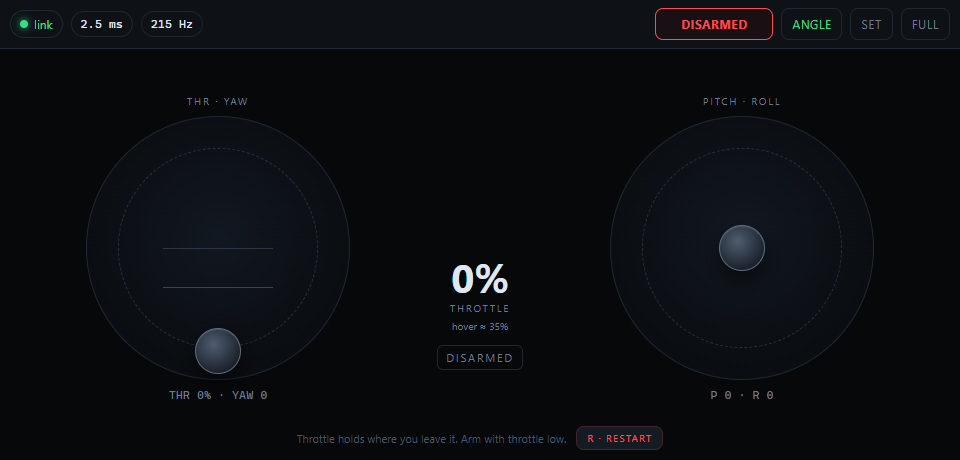
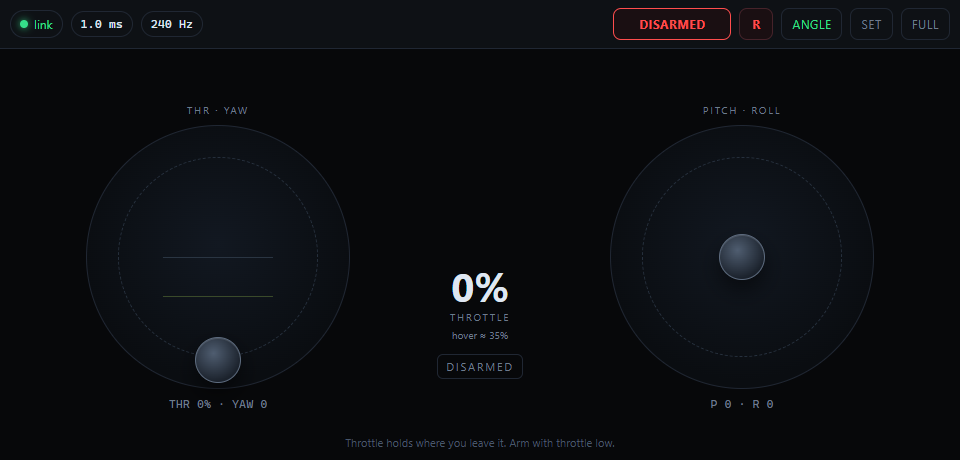
fix: make phone R restart the run, next to ARM

diff --git a/tools/smoke.ts b/tools/smoke.ts
@@ -5,6 +5,7 @@
 import {
   FLAG_ARMED,
   FLAG_HOLD,
+  FLAG_RESET,
   decodeTxFrame,
   encodeTxFrame,
 } from '../packages/protocol/protocol.ts';
@@ -34,6 +35,7 @@ await new Promise<void>((resolve, reject) => {
   let received = 0;
   let bad = 0;
   let resetSeen = false;
+  let resetFlagSeen = false;
 
   sim.binaryType = 'arraybuffer';
   sim.onmessage = (ev) => {
@@ -48,7 +50,10 @@ await new Promise<void>((resolve, reject) => {
     }
     const frame = decodeTxFrame(ev.data as ArrayBuffer);
     if (!frame) bad++;
-    else received++;
+    else {
+      received++;
+      if ((frame.flags & FLAG_RESET) !== 0) resetFlagSeen = true;
+    }
   };
 
   sim.onopen = () => {
@@ -67,7 +72,7 @@ await new Promise<void>((resolve, reject) => {
               yaw: 0,
               pitch: 100,
               roll: -100,
-              flags: FLAG_ARMED | FLAG_HOLD,
+              flags: FLAG_ARMED | FLAG_HOLD | (sent === 50 ? FLAG_RESET : 0),
               mode: 2,
               aux: 0,
             }),
@@ -84,6 +89,7 @@ await new Promise<void>((resolve, reject) => {
         assert(status.tx === true, 'server marks TX link live while frames arrive');
         assert(status.txHz > 150, `server measured ${status.txHz} Hz from the phone`);
         assert(resetSeen, 'phone R button resets the sim');
+        assert(resetFlagSeen, 'binary reset pulse reaches the sim');
         resolve();
       } catch (err) {
         reject(err);

diff --git a/apps/tx/src/main.ts b/apps/tx/src/main.ts
@@ -2,6 +2,7 @@ import {
   FLAG_ANGLE,
   FLAG_ARMED,
   FLAG_HOLD,
+  FLAG_RESET,
   encodeTxFrame,
   type TxFrame,
 } from '../../../packages/protocol/protocol';
@@ -170,6 +171,7 @@ const settings = loadSettings();
 let armed = false;
 let angleMode = true;
 let seq = 0;
+let resetPulseUntil = 0;
 let ws: WebSocket | null = null;
 let reconnectTimer: number | null = null;
 let rttMs = -1;
@@ -342,7 +344,8 @@ function currentFrame(): TxFrame {
     flags:
       (armed ? FLAG_ARMED : 0) |
       (angleMode ? FLAG_ANGLE : 0) |
-      (settings.throttle === 'hold' ? FLAG_HOLD : 0),
+      (settings.throttle === 'hold' ? FLAG_HOLD : 0) |
+      (resetPulseUntil > now ? FLAG_RESET : 0),
     mode: settings.mode,
     aux: 0,
   };
@@ -496,9 +499,13 @@ btnRestart.addEventListener('click', () => {
     flash('no link');
     return;
   }
-  // Reset the run on the sim, then disarm so a restart never comes back hot.
+  // Pulse the reset bit in the binary stream so the restart also works with an
+  // older relay that does not forward the JSON reset message. Send both: the
+  // relay path is instant, the binary pulse is the compatibility path.
+  resetPulseUntil = performance.now() + 200;
   ws.send(JSON.stringify({ type: 'reset' }));
   disarm('run restarted');
+  send();
   buzz(30);
   flash('run restarted');
 });

diff --git a/apps/server/public/tx/index.html b/apps/server/public/tx/index.html
@@ -11,7 +11,7 @@
     <meta name="mobile-web-app-capable" content="yes" />
     <meta name="apple-mobile-web-app-capable" content="yes" />
     <title>FPV TX</title>
-    <link rel="stylesheet" href="./style.css?v=4" />
+    <link rel="stylesheet" href="./style.css?v=5" />
   </head>
   <body>
     <div id="app">
@@ -20,6 +20,7 @@
         <div class="pill mono" id="rtt">-- ms</div>
         <div class="pill mono" id="rate">-- Hz</div>
         <button id="armBtn" class="arm" type="button">DISARMED</button>
+        <button id="btnRestart" class="danger restart" type="button" aria-label="restart run">R</button>
         <button id="btnAngle" class="ghost" type="button">ACRO</button>
         <button id="btnSettings" class="ghost" type="button" aria-label="settings">SET</button>
         <button id="btnFull" class="ghost" type="button" aria-label="fullscreen">FULL</button>
@@ -57,7 +58,6 @@
 
       <div class="hintbar">
         <span>Throttle holds where you leave it. Arm with throttle low.</span>
-        <button id="btnRestart" class="danger restart" type="button">R · RESTART</button>
       </div>
     </div>
 
@@ -121,6 +121,6 @@
       </div>
     </div>
 
-    <script type="module" src="./tx.js?v=4"></script>
+    <script type="module" src="./tx.js?v=5"></script>
   </body>
 </html>

diff --git a/apps/sim/src/input.ts b/apps/sim/src/input.ts
@@ -1,5 +1,6 @@
 import {
   FLAG_ARMED,
+  FLAG_RESET,
   fromAxis,
   decodeTxFrame,
   type TxFrame,
@@ -21,6 +22,7 @@ export class InputClient {
   private ws: WebSocket | null = null;
   private lastFrame: TxFrame | null = null;
   private lastFrameAt = 0;
+  private resetHeld = false;
   private framesThisSecond = 0;
   private hz = 0;
   private rtt = -1;
@@ -104,10 +106,15 @@ export class InputClient {
       }
       const frame = decodeTxFrame(ev.data as ArrayBuffer);
       if (!frame) return;
+      const reset = (frame.flags & FLAG_RESET) !== 0;
       this.lastFrame = frame;
       this.lastFrameAt = performance.now();
       this.framesThisSecond++;
       this.packets++;
+      // The phone holds the reset bit high for ~200 ms. Reset once on the
+      // rising edge; the JSON reset path above remains for good measure.
+      if (reset && !this.resetHeld) this.onDiscreteKey?.('KeyR');
+      this.resetHeld = reset;
     };
     ws.onclose = () => {
       this.link = this.snapshot();
@@ -167,6 +174,7 @@ export class InputClient {
   read(): Inputs {
     const now = performance.now();
     const fresh = this.lastFrame && now - this.lastFrameAt < 250;
+    if (!fresh) this.resetHeld = false;
 
     if (fresh && this.lastFrame) {
       const f = this.lastFrame;

diff --git a/packages/protocol/protocol.ts b/packages/protocol/protocol.ts
@@ -10,7 +10,8 @@
  *  10  i16  yaw        -1000 = left, +1000 = right
  *  12  i16  pitch      -1000 = nose down, +1000 = nose up
  *  14  i16  roll       -1000 = left, +1000 = right
- *  16  u8   flags      bit0 armed, bit1 angle mode, bit2 throttle hold, bit3 failsafe
+ *  16  u8   flags      bit0 armed, bit1 angle mode, bit2 throttle hold, bit3 failsafe,
+ *                      bit4 reset pulse
  *  17  u8   mode       1 or 2
  *  18  u16  aux        switch bits, reserved
  *  20  u16  crc        simple checksum of bytes 0..19
@@ -27,6 +28,11 @@ export const FLAG_ARMED = 1 << 0;
 export const FLAG_ANGLE = 1 << 1;
 export const FLAG_HOLD = 1 << 2;
 export const FLAG_FAILSAFE = 1 << 3;
+/**
+ * One-shot pulse from the phone's R button. The sim resets on the rising edge,
+ * so restart works even if an older relay does not forward the JSON reset.
+ */
+export const FLAG_RESET = 1 << 4;
 
 export interface TxFrame {
   seq: number;

diff --git a/apps/server/public/tx/style.css b/apps/server/public/tx/style.css
@@ -40,8 +40,10 @@ body {
 
 #bar {
   display: flex;
+  flex-wrap: wrap;
   align-items: center;
   gap: 8px;
+  row-gap: 6px;
   padding: 8px 10px;
   border-bottom: 1px solid var(--line);
   background: var(--panel);
@@ -236,10 +238,40 @@ button:active {
 }
 
 .restart {
-  padding: 4px 10px;
-  font-size: 10px;
-  letter-spacing: 0.12em;
+  min-width: 34px;
+  padding: 7px 9px;
+  font-size: 12px;
+  font-weight: 700;
+  letter-spacing: 0.04em;
   white-space: nowrap;
+  border-color: #46232a;
+  color: var(--danger);
+  background: #1a0f12;
+}
+
+@media (max-width: 560px) {
+  #bar {
+    gap: 6px;
+    padding: 8px;
+  }
+  .pill {
+    padding: 4px 7px;
+    font-size: 11px;
+  }
+  .pill.mono {
+    display: none;
+  }
+  .arm {
+    min-width: 92px;
+    padding: 7px 8px;
+  }
+  .ghost {
+    padding: 7px 8px;
+  }
+  .restart {
+    min-width: 30px;
+    padding: 7px 7px;
+  }
 }
 
 .msg {

diff --git a/tests/protocol.test.ts b/tests/protocol.test.ts
@@ -3,6 +3,7 @@ import assert from 'node:assert/strict';
 import {
   FRAME_BYTES,
   FLAG_ARMED,
+  FLAG_RESET,
   decodeTxFrame,
   encodeTxFrame,
   type TxFrame,
@@ -50,4 +51,11 @@ test('extreme axis values survive', () => {
     assert.equal(decoded?.throttle, v);
     assert.equal(decoded?.yaw, v);
   }
+});
+
+test('reset pulse flag survives the wire format', () => {
+  const decoded = decodeTxFrame(
+    encodeTxFrame({ ...base, flags: FLAG_ARMED | FLAG_RESET }),
+  );
+  assert.equal(decoded?.flags, FLAG_ARMED | FLAG_RESET);
 });

diff --git a/apps/server/public/sim/index.html b/apps/server/public/sim/index.html
@@ -60,6 +60,6 @@
       <span id="helpPhone">phone: open /tx/ over adb reverse</span>
     </div>
 
-    <script type="module" src="./sim.js?v=7"></script>
+    <script type="module" src="./sim.js?v=8"></script>
   </body>
 </html>

diff --git a/README.md b/README.md
@@ -109,8 +109,8 @@ Windows-specific.
 5. **Arm and fly.** Pull the throttle to the bottom, tap **DISARMED → ARMED**, raise the
    throttle to about 36% and fly. In ANGLE, pushing the right stick forward pitches the
    nose down and moves you forward.
-6. **Restart a run.** Use **R · RESTART** on the phone or `R` on the keyboard. A restart
-   disarms the phone so the next run cannot start hot.
+6. **Restart a run.** Use the **R** button next to **ARM** on the phone or `R` on the
+   keyboard. A restart disarms the phone so the next run cannot start hot.
 
 No phone nearby? The keyboard flies the same physics:
 
@@ -138,7 +138,7 @@ The keyboard fallback runs ACRO; ANGLE is selected on the phone's top-right togg
 | Yaw | left stick horizontal | `A` / `D` |
 | Pitch / roll | right stick | arrow keys |
 | ANGLE ↔ ACRO | top-right mode button | keyboard is ACRO |
-| Restart | **R · RESTART** | `R` |
+| Restart | **R** next to **ARM** | `R` |
 | Camera | — | `C` (chase), `O` (overview) |
 | Camera tilt | — | `[` / `]` |
 | Analog look | — | `V` |
@@ -200,7 +200,7 @@ limits are typically 140–250 Hz):
 | 10 | `i16` | yaw, `-1000` left … `+1000` right |
 | 12 | `i16` | pitch, `-1000` nose down … `+1000` nose up |
 | 14 | `i16` | roll, `-1000` left … `+1000` right |
-| 16 | `u8` | flags: bit 0 armed, bit 1 ANGLE, bit 2 HOLD, bit 3 failsafe |
+| 16 | `u8` | flags: bit 0 armed, bit 1 ANGLE, bit 2 HOLD, bit 3 failsafe, bit 4 reset pulse |
 | 17 | `u8` | stick mode (1 or 2) |
 | 18 | `u16` | auxiliary switches, reserved |
 | 20 | `u16` | checksum of bytes 0–19 |
@@ -244,7 +244,7 @@ Numbers from the development machine (Windows, Chrome, USB-tethered Android phon
 | Physics tick rate | 1,000–1,100 Hz |
 | Phone page send rate | 140–250 Hz (browser timer limits) |
 | Render loop | GPU-bound; live frame time is shown in the HUD |
-| Unit tests | 23 |
+| Unit tests | 24 |
 
 The physics tick is independent of render frame rate: a slow frame does not slow the
 flight model, and the HUD exposes both rates so the claim is checkable.
@@ -295,7 +295,7 @@ The server binds to `127.0.0.1:8080`. The sim accepts `?alt=` (spawn altitude) a
 ## Testing
 
 ```bat
-npm test                    :: 23 physics + protocol tests
+npm test                    :: 24 physics + protocol tests
 npm run typecheck           :: strict TypeScript check
 node tools/smoke.ts         :: server up, pages served, 250 Hz relay, phone reset
 node tools/tx-test.mjs      :: touch drag, throttle hold, arm guard (server must run)

diff --git a/docs/ARCHITECTURE.md b/docs/ARCHITECTURE.md
@@ -52,7 +52,7 @@ sim decodes it again.
 10  i16  yaw       -1000 … +1000
 12  i16  pitch     -1000 … +1000
 14  i16  roll      -1000 … +1000
-16  u8   flags     bit0 armed, bit1 ANGLE, bit2 HOLD, bit3 failsafe
+16  u8   flags     bit0 armed, bit1 ANGLE, bit2 HOLD, bit3 failsafe, bit4 reset pulse
 17  u8   stick mode 1 or 2
 18  u16  aux switches, reserved
 20  u16  checksum of bytes 0…19
@@ -86,9 +86,10 @@ Malformed frames are counted and dropped. Status JSON (`tx`, `txAgeMs`, `txHz`, 
 The sim treats a frame as fresh for 250 ms. If the link goes stale, input is disarmed and
 the HUD shows `LINK LOST`; the physics keeps running so the quad falls rather than freezing.
 
-The phone's **R · RESTART** button sends `{"type":"reset"}`. The server forwards it to all
-sims; each sim resets to the start line. The phone disarms first, so a restart cannot resume
-with the throttle still up.
+The R button next to ARM sends `{"type":"reset"}` and holds the frame's reset bit high
+for 200 ms. The relay forwards the JSON message to all sims; the sim also resets on the
+rising edge of the binary bit, so restart works even if the relay predates the JSON path.
+The phone disarms first, so a restart cannot resume with the throttle still up.
 
 ## Flight model
 
